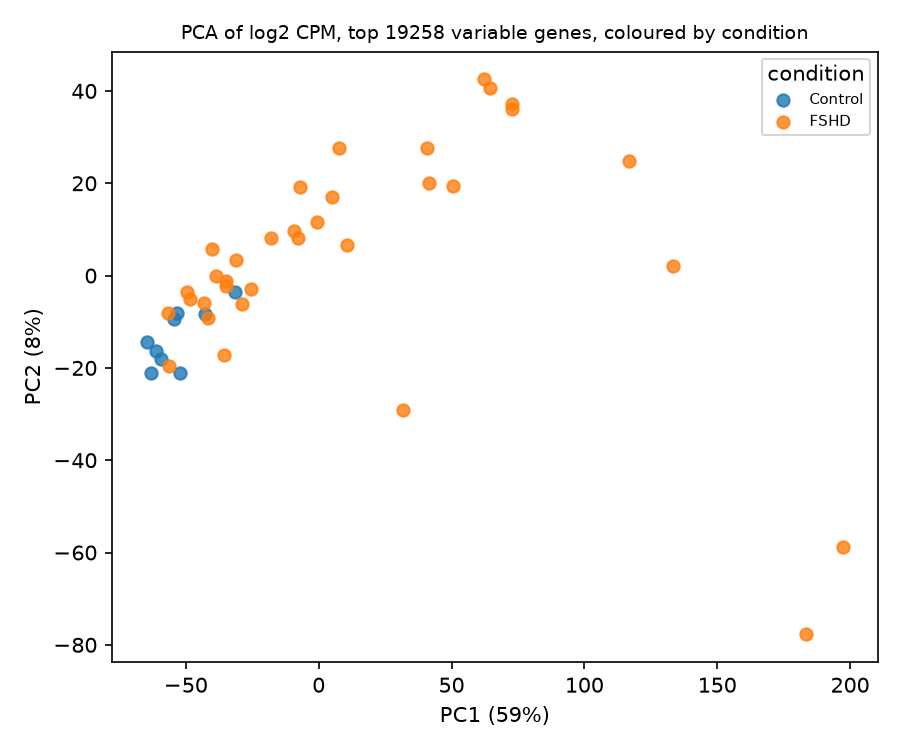
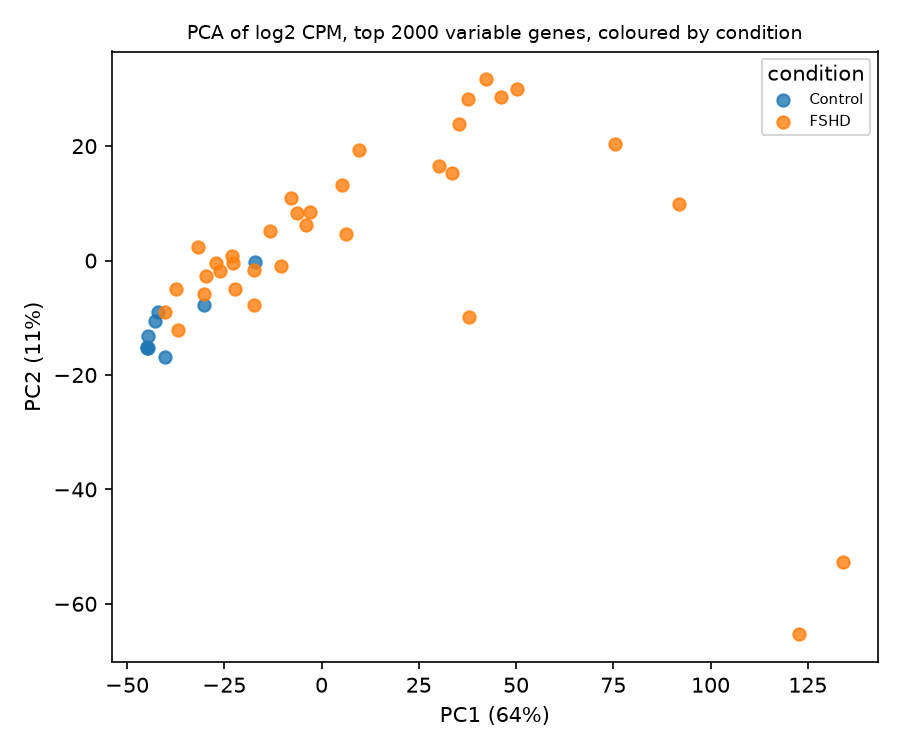
Exploration after filter top genes and PCA

diff --git a/practical/scripts/step2_qc_exploration.py b/practical/scripts/step2_qc_exploration.py
@@ -112,7 +112,7 @@ def main() -> None:
     # log2 CPM and PCA on the most variable genes.
     cpm = filtered / filtered.sum(axis=0) * 1e6
     logcpm = np.log2(cpm + 1)
-    n_top = 19258  # TODO(student): does the choice of n_top change the picture?
+    n_top = 2000  # TODO(student): does the choice of n_top change the picture? # The % of variance explained is slightly different but the overall picture doesn't change 
     top = logcpm.var(axis=1).sort_values(ascending=False).index[:n_top]
     x = logcpm.loc[top].T
     x = x - x.mean(axis=0)

diff --git a/practical/worksheets/step2_qc.md b/practical/worksheets/step2_qc.md
@@ -13,21 +13,25 @@ Do the four biomarker genes of the paper pass your filter? yes
 
 ## Exploration
 
-Figures (in `results/step2_qc/`):
+Figures (in `results/step2_qc/`): 
 
 - PCA coloured by condition: 
 ![Condition](image.png)
 
 - PCA coloured by each technical variable: 
 ![Batch](image-1.png)
+![Instrument model](image-2.png)
+![Tissue](image-3.png)
 
 - PCA coloured by the authors' group (`rnaseq.rank`): 
+![rnaseq.rank](image-4.png)
 
 Name the variable that separates the samples on PC1, then on PC2: the condition,
 a technical variable, the authors' group, or none you can name. Give the variance
-PC1 and PC2 explain.
+PC1 and PC2 explain. PC1 explains 64% and PC2 11% of the variance.
+None I can really name. 
 
-Compare your PCA with Figure 3 of the paper. The same or not, and why:
+Compare your PCA with Figure 3 of the paper. The same or not, and why: Not the same; % of variance explained is lower in paper (they did not perform any filtering nor feature selection top 2000); Distribution of samples is different; samples to exclude are different; 
 
 ## Samples I excluded, and why
 
